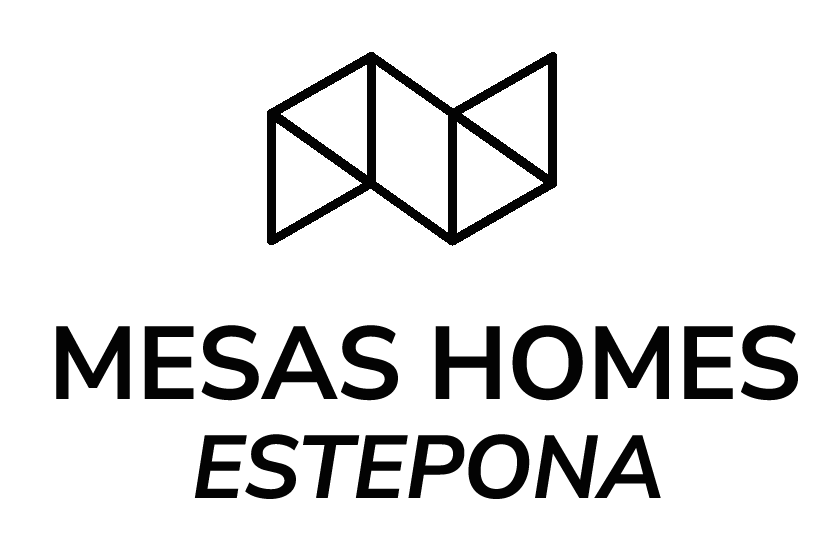
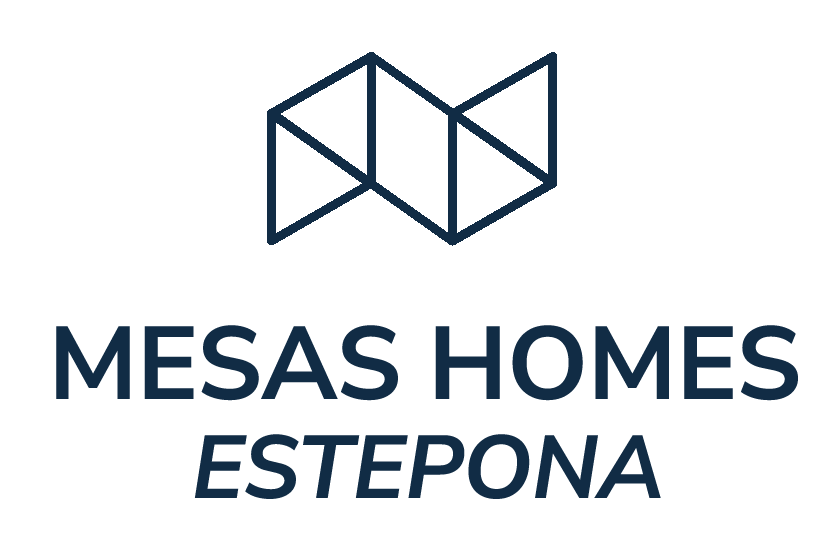
estilos varios e imágenes en azul

diff --git a/src/styles/globals.css b/src/styles/globals.css
@@ -1,88 +1,92 @@
 :root {
-    --color-azul-oscuro: #001B4B;
-    --color-azul-claro: #005896;
-    --color-azul-claro-plus: #308acc;
-    --color-dorado: #c36e57;
-    --color-verde: #6e8174;
-    --color-dorado-oscuro: #9c8364;
-    --color-gris-claro: #d1ccc9;
-    --color-gris-oscuro: #676767;
-    --color-gris-oscuro-plus: #333334;
+  --color-azul-oscuro: #001b4b;
+  --color-azul-claro: #005896;
+  --color-azul-claro-plus: #308acc;
+  --color-dorado: #c36e57;
+  --color-verde: #6e8174;
+  --color-dorado-oscuro: #9c8364;
+  --color-gris-claro: #d1ccc9;
+  --color-gris-oscuro: #676767;
+  --color-gris-oscuro-plus: #333334;
 }
 
-*{
-    margin:0;
-    padding:0;
-    list-style: none;
-    font-family: "Nunito Sans", sans-serif;
+* {
+  margin: 0;
+  padding: 0;
+  list-style: none;
+  font-family: "Nunito Sans", sans-serif;
 }
 
-html, body{
-    display: flex;
-    flex-direction: column;
-    height:100vh;
-    margin: 0;
-    min-width: 360px;
-  }
+html,
+body {
+  display: flex;
+  flex-direction: column;
+  height: 100vh;
+  margin: 0;
+  min-width: 360px;
+}
 
-#__next{
-    display: flex;
-    width: 100%;
-    flex: 1;
-    flex-direction: column;
+#__next {
+  display: flex;
+  width: 100%;
+  flex: 1;
+  flex-direction: column;
 }
 
 img {
-    width: auto; /* La imagen se ajustará al ancho del contenedor */
-    max-height: 200px; /* La altura se ajustará automáticamente para mantener la relación de aspecto */
-  }
+  width: 100%; /* La imagen se ajustará al ancho del contenedor */
+  height: auto; /* La altura se ajustará automáticamente para mantener la relación de aspecto */
+}
 
 .body {
-    width: 100%;
-    height: 100%;
-    display: flex;
+  width: 100%;
+  height: 100%;
+  display: flex;
+  flex-direction: column;
+  flex: 1;
+}
+
+ul,
+li {
+  list-style: none;
+  padding: 0;
+  margin: 0;
+}
+
+main#mainprincipal {
+  display: flex;
+  flex-direction: column;
+  flex: 1;
+}
+
+#cabeceramostrarprecios {
+  display: flex;
+  justify-content: center;
+  align-content: center;
+  flex-direction: row;
+  padding:0 2rem;
+}
+
+.botonpdf {
+  display: block;
+  background-color: #001b4b;
+  color: white;
+  padding: 1rem;
+  border: solid 1px white;
+  max-width: fit-content;
+  text-decoration: none;
+}
+
+#contenedorBotonPDF {
+  display: flex;
+  align-content: center;
+  justify-content: center;
+  padding: 2rem 2rem 0 2rem;
+  background-color: var(--color-azul-oscuro);
+}
+
+@media screen and (max-width: 750px) {
+  #cabeceramostrarprecios {
     flex-direction: column;
-    flex: 1;
+  }
 }
-
-ul, li{
-    list-style:none;
-    padding:0;
-    margin:0;
-}
-
-main#mainprincipal{
-    display: flex;
-    flex-direction: column;
-    flex: 1;
-}
-
-#cabeceramostrarprecios{
-    display: flex;
-}
-
-.botonpdf{
-    display: block;
-    background-color: #001B4B;
-    color:white;
-    padding: 1rem;
-    border: solid 1px white;
-    max-width: fit-content;
-    text-decoration: none;
-}
-
-#contenedorBotonPDF{
-    display: flex;
-    padding: 1rem;
-    justify-content: center;
-}
-
-@media screen and (max-width:750px) {
-
- #cabeceramostrarprecios{
-   flex-direction: column;
-
-} 
-
-}
-

diff --git a/src/styles/Constructor.module.css b/src/styles/Constructor.module.css
@@ -1,13 +1,17 @@
 .contenedor {
-    width: 200px; /* Ancho deseado del contenedor */
+    width: 400px; /* Ancho deseado del contenedor */
     max-height: 200px; /* Alto deseado del contenedor */
     overflow: hidden; /* Para ocultar partes de la imagen que no caben */
     padding: 1rem;
-    flex:1;
+    padding-left: 2rem;
     display: flex;
-    max-height: 200px;
     align-content: center;
+    align-self: center;
+    justify-content: flex-start;
+
   }
+
+
 
 
   @media screen and (max-width:750px) {

diff --git a/src/styles/Tabla.module.css b/src/styles/Tabla.module.css
@@ -1,13 +1,20 @@
+div.prueba{
+    flex:1;
+    display:flex;
+    justify-content: flex-end;
+}
+
 div.contenedorTabla{
     display:flex;
+    flex-direction: end;
     background-color:white;
-    justify-content: end;
+    justify-content: center;
     margin: 1rem;
     color:var(--color-azul-oscuro);
     letter-spacing: 0.1rem;
     flex-direction: column;
     width: auto;
-     max-width: 30rem; 
+    max-width: 30rem; 
 }
 
 div.datosTitulo{
